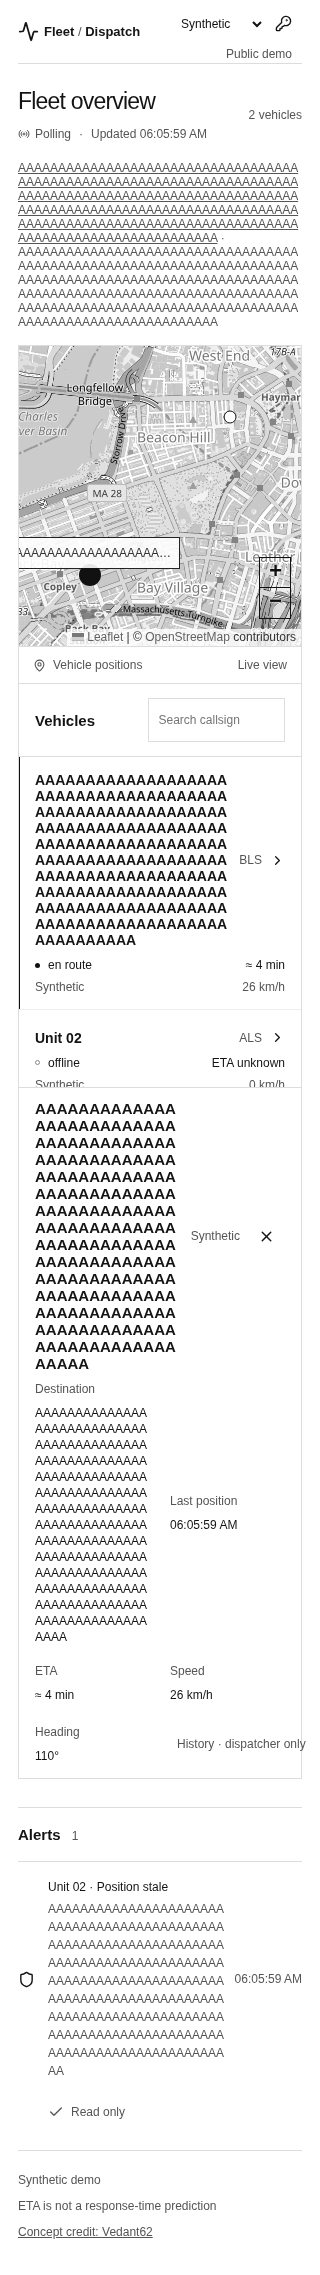
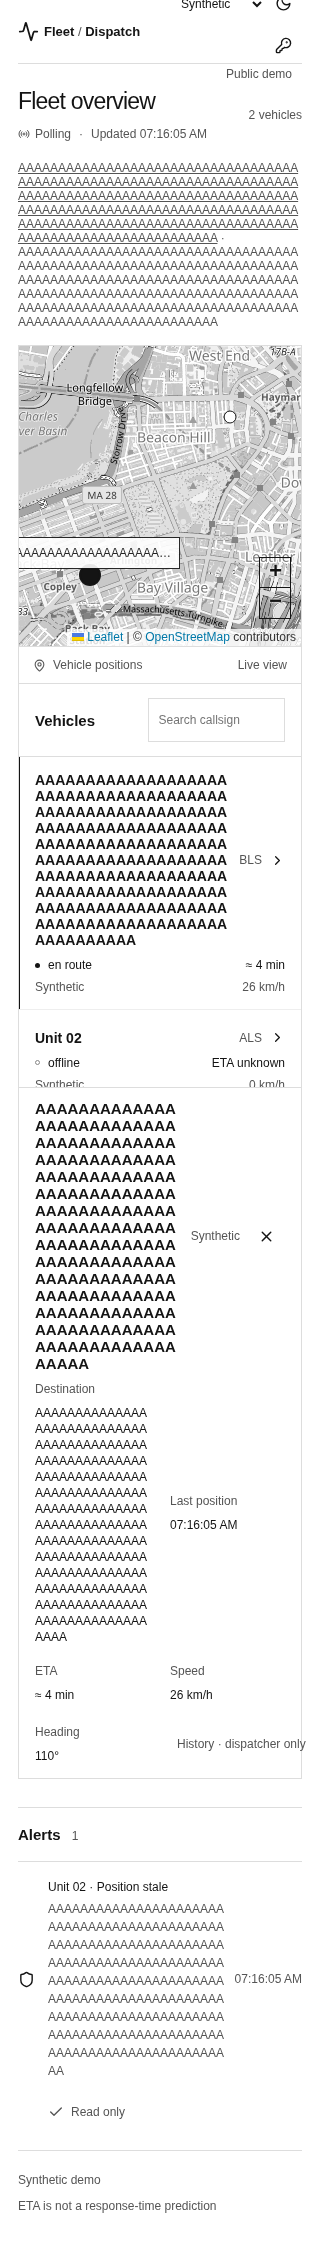
Dark mode by default with retained light toggle
Pre-paint /theme.js (CSP-safe external script) sets data-theme from
localStorage, defaulting to dark. Palette moves to CSS variables with a
light override; OSM tiles invert in dark, marker/tooltip colors follow
the theme. Toggle in the header persists across reloads. e2e pins the
two light-design assertions to light and adds a dark-default/persistence
test.

diff --git a/web/src/style.css b/web/src/style.css
@@ -1,8 +1,10 @@
-:root{font-family:Inter,Arial,sans-serif;color:#141414;background:#fff;font-synthesis:none;font-weight:400;font-size:14px}*{box-sizing:border-box}body{margin:0}button,input{font:inherit}button{display:inline-flex;align-items:center;justify-content:center;gap:7px;cursor:pointer;background:transparent;border:0;color:inherit;min-height:44px;padding:10px}button:disabled{cursor:not-allowed;color:#555}button:focus-visible,a:focus-visible,input:focus-visible{outline:2px solid #111;outline-offset:2px}a{color:inherit;text-decoration:none}input{min-width:0;border:1px solid #ddd;border-radius:0;padding:10px;background:#fff;color:#111;min-height:44px}main{max-width:1500px;margin:auto;padding:0 40px}header{height:78px;display:flex;align-items:center;justify-content:space-between;border-bottom:1px solid #ddd}.brand{display:flex;align-items:center;gap:12px;font-weight:600;font-size:16px}.slash{font-weight:400;color:#555}.header-meta{display:flex;align-items:center;gap:14px}.mode{font-size:12px;color:#555}.topline{display:flex;align-items:center;justify-content:space-between;padding:30px 0 24px}h1{font-size:26px;font-weight:500;letter-spacing:-.8px;margin:0 0 12px}h2{font-size:15px;font-weight:600;margin:0}.subline{display:flex;align-items:center;gap:7px;font-size:12px;color:#555}.dot{padding:0 3px}.fleet-count{font-size:12px;color:#555}.workspace{display:grid;grid-template-columns:minmax(0,1fr) 315px;border:1px solid #ddd;min-height:420px}.map-panel{min-width:0;position:relative;display:flex;flex-direction:column}.map{height:395px;width:100%;background:#f5f5f5;isolation:isolate;z-index:0}.map-caption{font-size:12px;color:#555;display:flex;gap:7px;align-items:center;padding:11px 14px;border-top:1px solid #ddd}.map-caption span:last-child{margin-left:auto}.vehicles-panel{border-left:1px solid #ddd;min-width:0}.panel-head{display:flex;justify-content:space-between;gap:15px;align-items:center;padding:18px 20px;border-bottom:1px solid #ddd}.vehicles-panel .panel-head{display:block;padding-bottom:13px}.panel-head input{width:100%;margin-top:14px;font-size:12px}.vehicle-list{max-height:345px;overflow:auto}.vehicle-row{display:block;width:100%;padding:16px 20px;text-align:left;border-bottom:1px solid #eee;min-height:102px}.vehicle-row:hover{background:#fff}.vehicle-row.selected{background:#fff;box-shadow:inset 1px 0 #111}.vehicle-top,.vehicle-middle,.vehicle-bottom{display:flex;align-items:center;gap:8px}.vehicle-top strong{font-size:14px;font-weight:600;flex:1}.type{font-size:12px;color:#555}.vehicle-middle{margin-top:10px;font-size:12px;text-transform:none}.status-dot{width:5px;height:5px;border-radius:50%;background:#111}.status-dot.stale{background:#fff;border:1px solid #888}.eta{margin-left:auto}.vehicle-bottom{justify-content:space-between;margin-top:8px;font-size:12px;color:#555}.eta-note{display:block;text-align:right;color:#555;font-size:12px;margin-top:5px}.alerts{margin-top:28px;border-top:1px solid #ddd;border-bottom:1px solid #ddd}.alerts .panel-head{padding-left:0;padding-right:0}.muted{font-size:12px;color:#555;margin-left:7px;font-weight:400}.alert-row{display:flex;align-items:center;gap:16px;padding:16px 0;border-bottom:1px solid #eee}.alert-row:last-child{border-bottom:0}.alert-row>div{flex:1;min-width:0}.alert-row strong{font-size:12px;font-weight:500}.alert-row p{margin:6px 0 0;font-size:12px;color:#555;line-height:1.5}.alert-row time{font-size:12px;color:#555}.text-button{font-size:12px;white-space:nowrap}.empty{padding:22px 20px;color:#555;font-size:12px}.alerts .empty{padding-left:0}.detail{border:1px solid #ddd;border-top:0;padding:16px 20px}.detail-title{display:flex;align-items:center;gap:15px}.detail-title>span{color:#555;font-size:12px}.detail-title>button{margin-left:auto}.detail-data{display:flex;align-items:center;gap:28px;margin-top:10px}.detail-data>div{flex:1;min-width:0}.detail-data span{font-size:12px;color:#555;display:block;margin-bottom:8px}.detail-data strong{font-size:12px;font-weight:500;overflow-wrap:anywhere}.replay{display:flex;align-items:center;gap:6px;margin-top:20px;border-top:1px solid #ddd;padding-top:10px}.replay input{flex:1;accent-color:#111;border:0}.replay>span{font-size:12px;white-space:nowrap}footer{display:flex;align-items:center;justify-content:space-between;gap:20px;font-size:12px;color:#555;padding:22px 0 32px;line-height:1.6}footer span{max-width:45%}footer a{text-decoration:underline}.error,.notice{padding:12px 16px;background:#f3f3f3;border:1px solid #ddd;margin-bottom:16px;font-size:12px;display:flex;justify-content:space-between;align-items:center}.error button{margin:-10px}.vehicle-tooltip{border:1px solid #111!important;border-radius:0!important;box-shadow:none!important;font-size:12px}.leaflet-container{font-family:inherit;filter:grayscale(1)}.leaflet-control-attribution{font-size:12px!important}.modal-scrim{position:fixed;inset:0;background:#0005;display:flex;align-items:center;justify-content:center;z-index:1000;padding:20px}.modal{width:420px;max-width:100%;background:#fff;padding:24px;border:1px solid #ddd}.modal label{display:block;font-size:12px;color:#555;margin:24px 0 10px}.modal input{width:100%}.primary{width:100%;background:#111;color:#fff;margin-top:20px}@media(max-width:760px){main{padding:0 18px}header{height:64px}.brand{font-size:14px;gap:8px}.mode{font-size:12px}.header-meta{gap:4px}.topline{padding:24px 0 20px}h1{font-size:23px}.subline{font-size:12px;gap:5px}.workspace{grid-template-columns:1fr}.map{height:300px}.vehicles-panel{border-left:0;border-top:1px solid #ddd}.vehicles-panel .panel-head{display:flex;align-items:center;gap:20px;padding:14px 16px}.panel-head input{width:155px;margin-top:0}.vehicle-list{max-height:330px}.vehicle-row{padding:15px 16px}.vehicle-bottom{font-size:12px}.detail{padding:12px 16px}.detail-title{flex-wrap:wrap;gap:8px}.detail-data{display:grid;grid-template-columns:1fr 1fr;gap:20px}.detail-data .text-button{justify-content:flex-start;padding-left:0}.alert-row{display:grid;grid-template-columns:20px 1fr auto;gap:10px}.alert-row .text-button{grid-column:2/4;justify-self:start;padding-left:0}.alert-row time{font-size:12px}.alerts .panel-head .muted{font-size:12px}.replay{flex-wrap:wrap}.replay input{width:calc(100% - 105px)}footer{display:block;padding-top:20px}footer span{display:block;max-width:100%;margin-bottom:7px}}@media(prefers-reduced-motion:reduce){*{scroll-behavior:auto!important}}
-select{font:inherit;background:#fff;color:#111;border:0;min-height:44px;font-size:12px;max-width:120px}.attribution{padding:0 0 16px;font-size:12px;color:#555}.attribution a{text-decoration:underline}@media(max-width:760px){select{font-size:12px;max-width:85px}.mode{display:none}}
+:root{--paper:#101010;--ink:#e8e8e8;--muted:#9a9a9a;--line:#2d2d2d;--row-line:#1f1f1f;--panel:#151515;--wash:#181818;color-scheme:dark;font-family:Inter,Arial,sans-serif;color:var(--ink);background:var(--paper);font-synthesis:none;font-weight:400;font-size:14px}
+[data-theme=light]{--paper:#fff;--ink:#141414;--muted:#555;--line:#ddd;--row-line:#eee;--panel:#f5f5f5;--wash:#f3f3f3;color-scheme:light}
+*{box-sizing:border-box}body{margin:0}button,input{font:inherit}button{display:inline-flex;align-items:center;justify-content:center;gap:7px;cursor:pointer;background:transparent;border:0;color:inherit;min-height:44px;padding:10px}button:disabled{cursor:not-allowed;color:var(--muted)}button:focus-visible,a:focus-visible,input:focus-visible{outline:2px solid var(--ink);outline-offset:2px}a{color:inherit;text-decoration:none}input{min-width:0;border:1px solid var(--line);border-radius:0;padding:10px;background:var(--paper);color:var(--ink);min-height:44px}main{max-width:1500px;margin:auto;padding:0 40px}header{height:78px;display:flex;align-items:center;justify-content:space-between;border-bottom:1px solid var(--line)}.brand{display:flex;align-items:center;gap:12px;font-weight:600;font-size:16px}.slash{font-weight:400;color:var(--muted)}.header-meta{display:flex;align-items:center;gap:14px}.mode{font-size:12px;color:var(--muted)}.topline{display:flex;align-items:center;justify-content:space-between;padding:30px 0 24px}h1{font-size:26px;font-weight:500;letter-spacing:-.8px;margin:0 0 12px}h2{font-size:15px;font-weight:600;margin:0}.subline{display:flex;align-items:center;gap:7px;font-size:12px;color:var(--muted)}.dot{padding:0 3px}.fleet-count{font-size:12px;color:var(--muted)}.workspace{display:grid;grid-template-columns:minmax(0,1fr) 315px;border:1px solid var(--line);min-height:420px}.map-panel{min-width:0;position:relative;display:flex;flex-direction:column}.map{height:395px;width:100%;background:var(--panel);isolation:isolate;z-index:0}.map-caption{font-size:12px;color:var(--muted);display:flex;gap:7px;align-items:center;padding:11px 14px;border-top:1px solid var(--line)}.map-caption span:last-child{margin-left:auto}.vehicles-panel{border-left:1px solid var(--line);min-width:0}.panel-head{display:flex;justify-content:space-between;gap:15px;align-items:center;padding:18px 20px;border-bottom:1px solid var(--line)}.vehicles-panel .panel-head{display:block;padding-bottom:13px}.panel-head input{width:100%;margin-top:14px;font-size:12px}.vehicle-list{max-height:345px;overflow:auto}.vehicle-row{display:block;width:100%;padding:16px 20px;text-align:left;border-bottom:1px solid var(--row-line);min-height:102px}.vehicle-row:hover{background:var(--paper)}.vehicle-row.selected{background:var(--paper);box-shadow:inset 1px 0 var(--ink)}.vehicle-top,.vehicle-middle,.vehicle-bottom{display:flex;align-items:center;gap:8px}.vehicle-top strong{font-size:14px;font-weight:600;flex:1}.type{font-size:12px;color:var(--muted)}.vehicle-middle{margin-top:10px;font-size:12px;text-transform:none}.status-dot{width:5px;height:5px;border-radius:50%;background:var(--ink)}.status-dot.stale{background:var(--paper);border:1px solid #888}.eta{margin-left:auto}.vehicle-bottom{justify-content:space-between;margin-top:8px;font-size:12px;color:var(--muted)}.eta-note{display:block;text-align:right;color:var(--muted);font-size:12px;margin-top:5px}.alerts{margin-top:28px;border-top:1px solid var(--line);border-bottom:1px solid var(--line)}.alerts .panel-head{padding-left:0;padding-right:0}.muted{font-size:12px;color:var(--muted);margin-left:7px;font-weight:400}.alert-row{display:flex;align-items:center;gap:16px;padding:16px 0;border-bottom:1px solid var(--row-line)}.alert-row:last-child{border-bottom:0}.alert-row>div{flex:1;min-width:0}.alert-row strong{font-size:12px;font-weight:500}.alert-row p{margin:6px 0 0;font-size:12px;color:var(--muted);line-height:1.5}.alert-row time{font-size:12px;color:var(--muted)}.text-button{font-size:12px;white-space:nowrap}.empty{padding:22px 20px;color:var(--muted);font-size:12px}.alerts .empty{padding-left:0}.detail{border:1px solid var(--line);border-top:0;padding:16px 20px}.detail-title{display:flex;align-items:center;gap:15px}.detail-title>span{color:var(--muted);font-size:12px}.detail-title>button{margin-left:auto}.detail-data{display:flex;align-items:center;gap:28px;margin-top:10px}.detail-data>div{flex:1;min-width:0}.detail-data span{font-size:12px;color:var(--muted);display:block;margin-bottom:8px}.detail-data strong{font-size:12px;font-weight:500;overflow-wrap:anywhere}.replay{display:flex;align-items:center;gap:6px;margin-top:20px;border-top:1px solid var(--line);padding-top:10px}.replay input{flex:1;accent-color:var(--ink);border:0}.replay>span{font-size:12px;white-space:nowrap}footer{display:flex;align-items:center;justify-content:space-between;gap:20px;font-size:12px;color:var(--muted);padding:22px 0 32px;line-height:1.6}footer span{max-width:45%}footer a{text-decoration:underline}.error,.notice{padding:12px 16px;background:var(--wash);border:1px solid var(--line);margin-bottom:16px;font-size:12px;display:flex;justify-content:space-between;align-items:center}.error button{margin:-10px}.vehicle-tooltip{border:1px solid var(--ink)!important;border-radius:0!important;box-shadow:none!important;font-size:12px;background:var(--paper)!important;color:var(--ink)!important}.leaflet-container{font-family:inherit}.leaflet-tile-pane{filter:grayscale(1)}[data-theme=dark] .leaflet-tile-pane{filter:grayscale(1) invert(.93) brightness(.85) contrast(.9)}[data-theme=dark] .leaflet-tooltip-top:before{border-top-color:var(--paper)}.leaflet-control-attribution{font-size:12px!important}.modal-scrim{position:fixed;inset:0;background:#0005;display:flex;align-items:center;justify-content:center;z-index:1000;padding:20px}.modal{width:420px;max-width:100%;background:var(--paper);padding:24px;border:1px solid var(--line)}.modal label{display:block;font-size:12px;color:var(--muted);margin:24px 0 10px}.modal input{width:100%}.primary{width:100%;background:var(--ink);color:var(--paper);margin-top:20px}@media(max-width:760px){main{padding:0 18px}header{height:64px}.brand{font-size:14px;gap:8px}.mode{font-size:12px}.header-meta{gap:4px}.topline{padding:24px 0 20px}h1{font-size:23px}.subline{font-size:12px;gap:5px}.workspace{grid-template-columns:1fr}.map{height:300px}.vehicles-panel{border-left:0;border-top:1px solid var(--line)}.vehicles-panel .panel-head{display:flex;align-items:center;gap:20px;padding:14px 16px}.panel-head input{width:155px;margin-top:0}.vehicle-list{max-height:330px}.vehicle-row{padding:15px 16px}.vehicle-bottom{font-size:12px}.detail{padding:12px 16px}.detail-title{flex-wrap:wrap;gap:8px}.detail-data{display:grid;grid-template-columns:1fr 1fr;gap:20px}.detail-data .text-button{justify-content:flex-start;padding-left:0}.alert-row{display:grid;grid-template-columns:20px 1fr auto;gap:10px}.alert-row .text-button{grid-column:2/4;justify-self:start;padding-left:0}.alert-row time{font-size:12px}.alerts .panel-head .muted{font-size:12px}.replay{flex-wrap:wrap}.replay input{width:calc(100% - 105px)}footer{display:block;padding-top:20px}footer span{display:block;max-width:100%;margin-bottom:7px}}@media(prefers-reduced-motion:reduce){*{scroll-behavior:auto!important}}
+select{font:inherit;background:var(--paper);color:var(--ink);border:0;min-height:44px;font-size:12px;max-width:120px}.attribution{padding:0 0 16px;font-size:12px;color:var(--muted)}.attribution a{text-decoration:underline}@media(max-width:760px){select{font-size:12px;max-width:85px}.mode{display:none}}
 @media(max-width:760px){.mode{display:inline;font-size:12px}header .brand{font-size:13px;gap:5px}.header-meta{gap:2px}}
 
-.vehicle-top strong,.vehicle-bottom span,.alert-row strong,.alert-row p,.attribution,.notice,.error,.detail-title h2,footer{overflow-wrap:anywhere;min-width:0}.vehicle-top svg,.status-dot,.alert-row>svg{flex-shrink:0}.vehicle-bottom span{flex:1}.vehicle-bottom span:last-child{text-align:right}.vehicle-middle{flex-wrap:wrap}.detail-title h2{flex:1}.leaflet-control-zoom{border:1px solid #111!important;border-radius:0!important;box-shadow:none!important}.leaflet-control-zoom a{background:transparent!important;border-color:#111!important}.leaflet-bar a:first-child,.leaflet-bar a:last-child{border-radius:0!important}.leaflet-control-attribution{font-size:12px!important;color:#333!important}.alert-row .text-button{white-space:normal}.type{flex-shrink:0}@media(max-width:760px){.header-meta .mode{display:none}.detail-data{grid-template-columns:minmax(0,1fr) minmax(0,1fr)}.alert-row{grid-template-columns:20px minmax(0,1fr) auto}.brand{white-space:nowrap}.replay{font-size:12px}.vehicles-panel .panel-head{gap:8px}.panel-head input{max-width:55%}.subline{flex-wrap:wrap}}
-.vehicle-tooltip{max-width:180px;overflow:hidden;text-overflow:ellipsis;white-space:nowrap;font-size:12px!important}.vehicle-middle>.eta{margin-left:auto}.leaflet-control-zoom a{color:#111!important;text-shadow:0 0 2px #fff,0 0 3px #fff}.detail-data{flex-wrap:wrap}.detail-data>div{min-width:110px}
+.vehicle-top strong,.vehicle-bottom span,.alert-row strong,.alert-row p,.attribution,.notice,.error,.detail-title h2,footer{overflow-wrap:anywhere;min-width:0}.vehicle-top svg,.status-dot,.alert-row>svg{flex-shrink:0}.vehicle-bottom span{flex:1}.vehicle-bottom span:last-child{text-align:right}.vehicle-middle{flex-wrap:wrap}.detail-title h2{flex:1}.leaflet-control-zoom{border:1px solid var(--ink)!important;border-radius:0!important;box-shadow:none!important}.leaflet-control-zoom a{background:transparent!important;border-color:var(--ink)!important}.leaflet-bar a:first-child,.leaflet-bar a:last-child{border-radius:0!important}.leaflet-control-attribution{font-size:12px!important;color:#333!important}[data-theme=dark] .leaflet-control-attribution{color:var(--muted)!important;background:rgba(16,16,16,.75)!important}.alert-row .text-button{white-space:normal}.type{flex-shrink:0}@media(max-width:760px){.header-meta .mode{display:none}.detail-data{grid-template-columns:minmax(0,1fr) minmax(0,1fr)}.alert-row{grid-template-columns:20px minmax(0,1fr) auto}.brand{white-space:nowrap}.replay{font-size:12px}.vehicles-panel .panel-head{gap:8px}.panel-head input{max-width:55%}.subline{flex-wrap:wrap}}
+.vehicle-tooltip{max-width:180px;overflow:hidden;text-overflow:ellipsis;white-space:nowrap;font-size:12px!important}.vehicle-middle>.eta{margin-left:auto}.leaflet-control-zoom a{color:var(--ink)!important;text-shadow:0 0 2px var(--paper),0 0 3px var(--paper)}.detail-data{flex-wrap:wrap}.detail-data>div{min-width:110px}
 
 @media(max-width:760px){.header-meta .mode{display:inline;font-size:12px}.header-meta{flex-wrap:wrap;justify-content:flex-end;gap:0;max-width:165px}.header-meta select{max-width:100px}.header-meta .mode{order:3;flex-basis:100%;text-align:right;padding-right:10px;line-height:16px}.header-meta button{min-height:40px}}

diff --git a/web/src/App.tsx b/web/src/App.tsx
@@ -1,5 +1,5 @@
 import {useCallback,useEffect,useMemo,useState,useRef} from 'react';
-import {Activity,ArrowLeft,Check,ChevronRight,Clock,KeyRound,LogOut,MapPin,Pause,Play,Radio,RefreshCw,Shield,X} from 'lucide-react';
+import {Activity,ArrowLeft,Check,ChevronRight,Clock,KeyRound,LogOut,MapPin,Moon,Pause,Play,Radio,RefreshCw,Shield,Sun,X} from 'lucide-react';
 import {acknowledge,history} from './api';
 import {connectFleet,type Connection} from './transport';
 import {FleetMap} from './FleetMap';
@@ -8,7 +8,7 @@ import './style.css';
 function renderAttribution(value:unknown):React.ReactNode{if(typeof value==='string')return value;if(Array.isArray(value))return value.map((entry,i)=><span key={i}>{renderAttribution(entry)} </span>);if(value&&typeof value==='object'){const entry=value as Record<string,unknown>;const text=typeof entry.text==='string'?entry.text:typeof entry.label==='string'?entry.label:typeof entry.name==='string'?entry.name:'';const url=typeof entry.url==='string'&&/^https?:\/\//.test(entry.url)?entry.url:null;return <>{text&&url?<a href={url} rel="noreferrer" target="_blank">{text}</a>:text}{typeof entry.source==='string'?` · ${entry.source}`:''}{entry.links!=null?renderAttribution(entry.links):null}</>;}return null;}
  const time=(stamp:string)=>new Date(stamp).toLocaleTimeString([], {hour:'2-digit',minute:'2-digit',second:'2-digit'});
 export default function App(){
- const [standIn,setStandIn]=useState(false),[token,setToken]=useState<string|null>(null),[tokenInput,setTokenInput]=useState(''),[login,setLogin]=useState(false),[snapshot,setSnapshot]=useState<FleetSnapshot|null>(null),[selectedId,setSelectedId]=useState<string|null>(null),[connection,setConnection]=useState<Connection>('connecting'),[error,setError]=useState(''),[filter,setFilter]=useState(''),[historyPings,setHistoryPings]=useState<Ping[]|null>(null),[cursor,setCursor]=useState(0),[playing,setPlaying]=useState(false),[historyBusy,setHistoryBusy]=useState(false),[historyError,setHistoryError]=useState(''),[ackBusy,setAckBusy]=useState<string|null>(null),[acked,setAcked]=useState<Set<string>>(new Set()),[now,setNow]=useState(performance.now());
+ const [theme,setTheme]=useState<'dark'|'light'>(()=>document.documentElement.dataset.theme==='light'?'light':'dark'),[standIn,setStandIn]=useState(false),[token,setToken]=useState<string|null>(null),[tokenInput,setTokenInput]=useState(''),[login,setLogin]=useState(false),[snapshot,setSnapshot]=useState<FleetSnapshot|null>(null),[selectedId,setSelectedId]=useState<string|null>(null),[connection,setConnection]=useState<Connection>('connecting'),[error,setError]=useState(''),[filter,setFilter]=useState(''),[historyPings,setHistoryPings]=useState<Ping[]|null>(null),[cursor,setCursor]=useState(0),[playing,setPlaying]=useState(false),[historyBusy,setHistoryBusy]=useState(false),[historyError,setHistoryError]=useState(''),[ackBusy,setAckBusy]=useState<string|null>(null),[acked,setAcked]=useState<Set<string>>(new Set()),[now,setNow]=useState(performance.now());
  const signInTrigger=useRef<HTMLButtonElement>(null);const receivedAt=useRef(performance.now());const modalRef=useRef<HTMLElement>(null);
  const selectionRef=useRef(selectedId);selectionRef.current=selectedId;const tokenRef=useRef(token);tokenRef.current=token;
  const mode:Mode=token?'live':'demo';
@@ -18,6 +18,7 @@ export default function App(){
  useEffect(()=>{if(!playing||!historyPings)return;const timer=setInterval(()=>setCursor(c=>{if(c>=historyPings.length-1){setPlaying(false);return c;}return c+1;}),650);return()=>clearInterval(timer);},[playing,historyPings]);
  useEffect(()=>{if(!login)return;const handler=(event:KeyboardEvent)=>{if(event.key==='Escape'){event.preventDefault();setLogin(false);}if(event.key==='Tab'){const items=Array.from(modalRef.current?.querySelectorAll<HTMLElement>('button:not(:disabled),input,select,a[href]')??[]);const first=items[0],last=items[items.length-1];if(event.shiftKey&&(document.activeElement===first||!modalRef.current?.contains(document.activeElement))){event.preventDefault();last?.focus();}else if(!event.shiftKey&&(document.activeElement===last||!modalRef.current?.contains(document.activeElement))){event.preventDefault();first?.focus();}}};document.addEventListener('keydown',handler);return()=>{document.removeEventListener('keydown',handler);signInTrigger.current?.focus();};},[login]);
  const select=useCallback((id:string)=>setSelectedId(id),[]);
+ const toggleTheme=()=>{const next=theme==='dark'?'light':'dark';document.documentElement.dataset.theme=next;try{localStorage.setItem('theme',next);}catch{}setTheme(next);};
  const vehicle=snapshot?.vehicles.find(v=>v.id===selectedId)??null;
  const vehicles=useMemo(()=>snapshot?.vehicles.filter(v=>v.callsign.toLowerCase().includes(filter.toLowerCase()))??[],[snapshot,filter]);
  // Server flags are preserved; a stale received snapshot must not keep a vehicle visually fresh.
@@ -29,13 +30,13 @@ export default function App(){
  const ack=async(id:string)=>{if(!token)return;setAckBusy(id);setError('');try{const result=await acknowledge(id,token);if(result.acknowledged!==true)throw new Error('Invalid acknowledgment response');if(tokenRef.current===token)setAcked(previous=>new Set([...previous,id]));}catch(e){setError(e instanceof Error?e.message:'Acknowledgment failed');}finally{setAckBusy(null);}};
  const signin=()=>{const value=tokenInput.trim();if(!/^[A-Za-z0-9_-]+\.[A-Za-z0-9_-]+\.[A-Za-z0-9_-]+$/.test(value)){setError('Invalid token format');return;}setToken(value);setTokenInput('');setLogin(false);};
  return <main>
- <header><a className="brand" href="/" aria-label="Fleet dispatch home"><Activity size={21}/><span>Fleet<span className="slash"> / </span>Dispatch</span></a><div className="header-meta">{!token&&<select aria-label="Demo data source" value={standIn?'stand_in':'synthetic'} onChange={e=>setStandIn(e.target.value==='stand_in')}><option value="synthetic">Synthetic</option><option value="stand_in">MBTA buses</option></select>}<span className="mode">{mode==='demo'?'Public demo':'Dispatcher'}</span><button ref={signInTrigger} aria-label={token?'Sign out':'Dispatcher sign in'} onClick={()=>token?setToken(null):setLogin(true)}>{token?<LogOut size={17}/>:<KeyRound size={17}/>}</button></div></header>
+ <header><a className="brand" href="/" aria-label="Fleet dispatch home"><Activity size={21}/><span>Fleet<span className="slash"> / </span>Dispatch</span></a><div className="header-meta">{!token&&<select aria-label="Demo data source" value={standIn?'stand_in':'synthetic'} onChange={e=>setStandIn(e.target.value==='stand_in')}><option value="synthetic">Synthetic</option><option value="stand_in">MBTA buses</option></select>}<span className="mode">{mode==='demo'?'Public demo':'Dispatcher'}</span><button aria-label={theme==='dark'?'Switch to light mode':'Switch to dark mode'} title={theme==='dark'?'Switch to light mode':'Switch to dark mode'} onClick={toggleTheme}>{theme==='dark'?<Sun size={17}/>:<Moon size={17}/>}</button><button ref={signInTrigger} aria-label={token?'Sign out':'Dispatcher sign in'} onClick={()=>token?setToken(null):setLogin(true)}>{token?<LogOut size={17}/>:<KeyRound size={17}/>}</button></div></header>
  <section className="topline"><div><h1>Fleet overview</h1><div className="subline"><Radio size={12}/><span>{connection==='websocket'?'Connected':connection==='polling'?'Polling':connection==='paused'?'Paused':connection==='error'?'Unavailable':'Connecting'}</span>{snapshot&&<><span className="dot">·</span><span>Updated {time(snapshot.server_time)}</span></>}</div></div><span className="fleet-count">{snapshot?.vehicles.length??'—'} {snapshot?.vehicles.length===1?'vehicle':'vehicles'}</span></section>
  {error&&<div className="error" role="alert">{error}<button aria-label="Dismiss error" onClick={()=>setError('')}><X size={16}/></button></div>}
  {snapshot?.feed_error!=null&&<div className="notice" role="alert">Stand-in feed unavailable{typeof snapshot.feed_error==='string'?`: ${snapshot.feed_error}`:''}. No synthetic substitution.</div>}
  {snapshot?.attribution!=null&&<div className="attribution">{renderAttribution(snapshot.attribution)}</div>}
  {staleSnapshot&&<div className="notice" role="status">Fleet snapshot is out of date. Positions and ETA are unavailable as current data.</div>}
- <div className="workspace"><section className="map-panel"><FleetMap key={snapshot?.fleet_id??`${mode}:${standIn}`} vehicles={displayed} selectedId={selectedId} onSelect={select} replay={replay}/><div className="map-caption"><MapPin size={13}/><span>{replay?'Recorded positions · replay':'Vehicle positions'}</span><span>{historyPings&&historyPings[cursor]?time(historyPings[cursor].recorded_at):'Live view'}</span></div></section>
+ <div className="workspace"><section className="map-panel"><FleetMap key={snapshot?.fleet_id??`${mode}:${standIn}`} vehicles={displayed} selectedId={selectedId} onSelect={select} replay={replay} theme={theme}/><div className="map-caption"><MapPin size={13}/><span>{replay?'Recorded positions · replay':'Vehicle positions'}</span><span>{historyPings&&historyPings[cursor]?time(historyPings[cursor].recorded_at):'Live view'}</span></div></section>
  <section className="vehicles-panel" aria-label="Vehicles"><div className="panel-head"><h2>Vehicles</h2><input aria-label="Filter vehicles" placeholder="Search callsign" value={filter} onChange={e=>setFilter(e.target.value)}/></div>
  <div className="vehicle-list">{!snapshot?<div className="empty">Awaiting fleet</div>:!vehicles.length?<div className="empty">No vehicles</div>:vehicles.map(v=>{const stale=vehicleIsStale(v,snapshot!,now-receivedAt.current);return <button className={`vehicle-row ${selectedId===v.id?'selected':''}`} key={v.id} onClick={()=>select(v.id)} aria-pressed={selectedId===v.id}><div className="vehicle-top"><strong>{v.callsign}</strong><span className="type">{v.source==='stand_in'?'BUS':v.type}</span><ChevronRight size={15}/></div><div className="vehicle-middle"><span className={`status-dot ${stale?'stale':''}`}/><span>{statusLabel(stale?'offline':v.status)}</span><span className="eta">{!stale&&v.eta&&v.latest_ping?.speed_kph!=null?`≈ ${Math.round(v.eta.minutes)} min`:'ETA unknown'}</span></div><div className="vehicle-bottom"><span>{sourceLabel(v,mode)}</span><span>{v.latest_ping?(v.latest_ping.speed_kph===null?'Speed unknown':`${Math.round(v.latest_ping.speed_kph)} km/h`):'No position'}</span></div></button>;})}</div>
  </section></div>

diff --git a/web/e2e/ui.spec.ts b/web/e2e/ui.spec.ts
@@ -12,12 +12,27 @@ test('stand-in feed failure stays empty, phone 320px has no overflow',async({pag
 test('expired dispatcher token stops live transport and can sign out',async({page})=>{await page.goto('/');await page.getByRole('button',{name:'Dispatcher sign in'}).click();await page.getByLabel('Short-lived access token').fill('expired.test.token');await page.getByRole('button',{name:'Connect',exact:true}).click();await expect(page.getByRole('alert')).toContainText('Dispatcher access denied');await expect(page.locator('.vehicle-row')).toHaveCount(0);await page.getByRole('button',{name:'Sign out'}).click();await expect(page.getByText('Unit 01',{exact:true})).toBeVisible();});
 
 test('long strings wrap at desktop, 390 and 320; sentence case and style',async({page})=>{
- await page.routeWebSocket('**/api/demo/events**',socket=>socket.close());const long='A'.repeat(200);await page.route('**/api/demo/fleet',async route=>{const result=await route.fetch();const s=await result.json();s.vehicles[0].callsign=long;s.vehicles[0].destination.label=long;s.alerts[0].message=long;s.attribution={label:long,source:long,url:'https://www.mbta.com/developers/gtfs-realtime'};await route.fulfill({json:s});});
+ await page.addInitScript(()=>localStorage.setItem('theme','light'));await page.routeWebSocket('**/api/demo/events**',socket=>socket.close());const long='A'.repeat(200);await page.route('**/api/demo/fleet',async route=>{const result=await route.fetch();const s=await result.json();s.vehicles[0].callsign=long;s.vehicles[0].destination.label=long;s.alerts[0].message=long;s.attribution={label:long,source:long,url:'https://www.mbta.com/developers/gtfs-realtime'};await route.fulfill({json:s});});
  await page.goto('/');await expect(page.locator('.vehicle-row').first()).toBeVisible();await page.locator('.vehicle-row').first().click();for(const width of [1440,390,320]){await page.setViewportSize({width,height:1000});await expect.poll(()=>page.evaluate(()=>document.documentElement.scrollWidth<=innerWidth)).toBe(true);await expect(page.getByText('en route',{exact:true})).toBeVisible();await expect(page.getByText('Advisory · straight-line ETA')).toHaveCount(0);await expect(page.getByText('Operational advisories')).toHaveCount(0);await expect(page.locator('.vehicle-row.selected')).toHaveCSS('background-color','rgb(255, 255, 255)');await page.screenshot({path:`screenshots/long-${width}.png`,fullPage:true});}
 });
 test('modal traps focus and Escape closes from any control',async({page})=>{await page.goto('/');await page.getByRole('button',{name:'Dispatcher sign in'}).click();const dialog=page.getByRole('dialog');const close=page.getByRole('button',{name:'Close sign in'}),connect=page.getByRole('button',{name:'Connect',exact:true});await connect.focus();await page.keyboard.press('Tab');await expect(close).toBeFocused();await page.keyboard.press('Shift+Tab');await expect(connect).toBeFocused();await page.keyboard.press('Escape');await expect(dialog).toHaveCount(0);await expect(page.getByRole('button',{name:'Dispatcher sign in'})).toBeFocused();});
 test('authorization expiry removes existing rows immediately',async({page})=>{await page.routeWebSocket('**/api/events',socket=>socket.close());await page.goto('/');await page.getByRole('button',{name:'Dispatcher sign in'}).click();await page.getByLabel('Short-lived access token').fill('mock.dispatcher.token');await page.getByRole('button',{name:'Connect',exact:true}).click();await expect(page.locator('.vehicle-row')).toHaveCount(3);await page.route('**/api/fleet',route=>route.fulfill({status:401,json:{error:{code:'expired',message:'Expired'}}}));await expect(page.getByRole('alert')).toContainText('Dispatcher access denied',{timeout:7000});await expect(page.locator('.vehicle-row')).toHaveCount(0);});
 test('two-minute-ahead client clock keeps fresh vehicles online',async({page})=>{await page.addInitScript(()=>{const original=Date.now.bind(Date);Date.now=()=>original()+120000;});await page.goto('/');await expect(page.getByText('en route',{exact:true})).toBeVisible();await expect(page.getByText('Fleet snapshot is out of date.',{exact:false})).toHaveCount(0);});
 
-test('text contrast and labels stay readable; WS expiry clears rows',async({page})=>{await page.routeWebSocket('**/api/events',socket=>{socket.connectToServer();setTimeout(()=>socket.close({code:1008,reason:'auth_expired'}),1800);});await page.goto('/');await expect(page.getByRole('button',{name:'Read only alert stale-2'})).toHaveText('Read only');for(const selector of ['.vehicle-bottom','.type','.mode','.subline','footer','.attribution','.muted']){const elements=page.locator(selector);for(let i=0;i<await elements.count();i++){const style=await elements.nth(i).evaluate(el=>({size:parseFloat(getComputedStyle(el).fontSize),color:getComputedStyle(el).color}));expect(style.size).toBeGreaterThanOrEqual(12);const rgb=style.color.match(/\d+/g)!.slice(0,3).map(Number).map(v=>{v/=255;return v<=.04045?v/12.92:((v+.055)/1.055)**2.4;});const lum=.2126*rgb[0]+.7152*rgb[1]+.0722*rgb[2];expect(1.05/(lum+.05)).toBeGreaterThanOrEqual(4.5);}}await page.getByRole('button',{name:'Dispatcher sign in'}).click();await page.getByLabel('Short-lived access token').fill('mock.dispatcher.token');await page.getByRole('button',{name:'Connect',exact:true}).click();await expect(page.locator('.vehicle-row')).toHaveCount(3);await expect(page.getByRole('alert')).toContainText('Dispatcher access denied');await expect(page.locator('.vehicle-row')).toHaveCount(0);});
+test('text contrast and labels stay readable; WS expiry clears rows',async({page})=>{await page.addInitScript(()=>localStorage.setItem('theme','light'));await page.routeWebSocket('**/api/events',socket=>{socket.connectToServer();setTimeout(()=>socket.close({code:1008,reason:'auth_expired'}),1800);});await page.goto('/');await expect(page.getByRole('button',{name:'Read only alert stale-2'})).toHaveText('Read only');for(const selector of ['.vehicle-bottom','.type','.mode','.subline','footer','.attribution','.muted']){const elements=page.locator(selector);for(let i=0;i<await elements.count();i++){const style=await elements.nth(i).evaluate(el=>({size:parseFloat(getComputedStyle(el).fontSize),color:getComputedStyle(el).color}));expect(style.size).toBeGreaterThanOrEqual(12);const rgb=style.color.match(/\d+/g)!.slice(0,3).map(Number).map(v=>{v/=255;return v<=.04045?v/12.92:((v+.055)/1.055)**2.4;});const lum=.2126*rgb[0]+.7152*rgb[1]+.0722*rgb[2];expect(1.05/(lum+.05)).toBeGreaterThanOrEqual(4.5);}}await page.getByRole('button',{name:'Dispatcher sign in'}).click();await page.getByLabel('Short-lived access token').fill('mock.dispatcher.token');await page.getByRole('button',{name:'Connect',exact:true}).click();await expect(page.locator('.vehicle-row')).toHaveCount(3);await expect(page.getByRole('alert')).toContainText('Dispatcher access denied');await expect(page.locator('.vehicle-row')).toHaveCount(0);});
 test('normal synthetic layout at 320px',async({page})=>{await page.setViewportSize({width:320,height:720});await page.goto('/');await expect(page.getByText('Unit 01',{exact:true})).toBeVisible();await expect.poll(()=>page.evaluate(()=>document.documentElement.scrollWidth<=innerWidth)).toBe(true);await page.waitForTimeout(1000);await page.screenshot({path:'screenshots/phone-320.png',fullPage:true});});
+test('dark is the default theme; toggle switches and persists across reload',async({page})=>{
+ await page.goto('/');await expect(page.getByText('Unit 01',{exact:true})).toBeVisible();
+ await expect.poll(()=>page.evaluate(()=>document.documentElement.dataset.theme)).toBe('dark');
+ await expect.poll(()=>page.evaluate(()=>getComputedStyle(document.documentElement).backgroundColor)).toBe('rgb(16, 16, 16)');
+ await expect(page.locator('.leaflet-interactive').first()).toBeInViewport();
+ await page.screenshot({path:'screenshots/dark-desktop.png',fullPage:true});
+ await page.getByRole('button',{name:'Switch to light mode'}).click();
+ await expect.poll(()=>page.evaluate(()=>document.documentElement.dataset.theme)).toBe('light');
+ await expect.poll(()=>page.evaluate(()=>getComputedStyle(document.documentElement).backgroundColor)).toBe('rgb(255, 255, 255)');
+ await page.reload();await expect(page.getByText('Unit 01',{exact:true})).toBeVisible();
+ await expect.poll(()=>page.evaluate(()=>document.documentElement.dataset.theme)).toBe('light');
+ await page.getByRole('button',{name:'Switch to dark mode'}).click();
+ await page.reload();await expect(page.getByText('Unit 01',{exact:true})).toBeVisible();
+ await expect.poll(()=>page.evaluate(()=>document.documentElement.dataset.theme)).toBe('dark');
+});

diff --git a/web/src/FleetMap.tsx b/web/src/FleetMap.tsx
@@ -2,13 +2,14 @@ import {useEffect,useRef} from 'react';
 import L from 'leaflet';
 import 'leaflet/dist/leaflet.css';
 import type {Ping,Vehicle} from './types';
-export function FleetMap({vehicles,selectedId,onSelect,replay}:{vehicles:Vehicle[];selectedId:string|null;onSelect:(id:string)=>void;replay:Ping[]|null}){
+export function FleetMap({vehicles,selectedId,onSelect,replay,theme}:{vehicles:Vehicle[];selectedId:string|null;onSelect:(id:string)=>void;replay:Ping[]|null;theme:'dark'|'light'}){
  const element=useRef<HTMLDivElement>(null),map=useRef<L.Map|null>(null),layer=useRef<L.LayerGroup|null>(null),initialized=useRef(false),bounds=useRef<L.LatLngBounds|null>(null);
  useEffect(()=>{if(!element.current)return;const instance=L.map(element.current,{zoomControl:false,attributionControl:true,zoomAnimation:false,fadeAnimation:false,markerZoomAnimation:false}).setView([42.355,-71.065],13);map.current=instance;L.control.zoom({position:'bottomright'}).addTo(instance);L.tileLayer('https://tile.openstreetmap.org/{z}/{x}/{y}.png',{maxZoom:19,attribution:'&copy; <a href="https://www.openstreetmap.org/copyright">OpenStreetMap</a> contributors'}).addTo(instance);layer.current=L.layerGroup().addTo(instance);const observer=new ResizeObserver(()=>{if(map.current===instance){instance.invalidateSize({animate:false});if(bounds.current)instance.fitBounds(bounds.current,{maxZoom:14,animate:false});}});observer.observe(element.current);return()=>{observer.disconnect();map.current=null;instance.stop();instance.remove();initialized.current=false;};},[]);
  useEffect(()=>{if(!map.current||!layer.current)return;layer.current.clearLayers();const points:L.LatLngExpression[]=[];
- if(replay?.length){L.polyline(replay.map(p=>[p.lat,p.lon]),{color:'#111',weight:2,dashArray:'4 5'}).addTo(layer.current);}
- for(const vehicle of vehicles){const ping=vehicle.id===selectedId&&replay?.length?replay[replay.length-1]:vehicle.latest_ping;if(!ping)continue;const point:L.LatLngExpression=[ping.lat,ping.lon];points.push(point);const active=vehicle.id===selectedId;const marker=L.circleMarker(point,{radius:active?10:6,color:'#111',weight:active?2:1,fillColor:vehicle.stale?'#fff':'#111',fillOpacity:1}).addTo(layer.current);const label=document.createElement('span');label.textContent=vehicle.callsign;marker.bindTooltip(label,{permanent:active,direction:'top',className:'vehicle-tooltip'});marker.on('click',()=>onSelect(vehicle.id));}
+ const css=getComputedStyle(document.documentElement),ink=css.getPropertyValue('--ink').trim()||'#111',paper=css.getPropertyValue('--paper').trim()||'#fff';
+ if(replay?.length){L.polyline(replay.map(p=>[p.lat,p.lon]),{color:ink,weight:2,dashArray:'4 5'}).addTo(layer.current);}
+ for(const vehicle of vehicles){const ping=vehicle.id===selectedId&&replay?.length?replay[replay.length-1]:vehicle.latest_ping;if(!ping)continue;const point:L.LatLngExpression=[ping.lat,ping.lon];points.push(point);const active=vehicle.id===selectedId;const marker=L.circleMarker(point,{radius:active?10:6,color:ink,weight:active?2:1,fillColor:vehicle.stale?paper:ink,fillOpacity:1}).addTo(layer.current);const label=document.createElement('span');label.textContent=vehicle.callsign;marker.bindTooltip(label,{permanent:active,direction:'top',className:'vehicle-tooltip'});marker.on('click',()=>onSelect(vehicle.id));}
  if(points.length){bounds.current=L.latLngBounds(points).pad(.3);if(!initialized.current){map.current.fitBounds(bounds.current,{maxZoom:14,animate:false});initialized.current=true;}}
- },[vehicles,selectedId,onSelect,replay]);
+ },[vehicles,selectedId,onSelect,replay,theme]);
  return <div className="map" role="region" aria-label="Vehicle positions on OpenStreetMap" ref={element}/>;
 }

diff --git a/web/index.html b/web/index.html
@@ -1,1 +1,1 @@
-<!doctype html><html lang="en"><head><meta charset="UTF-8"><meta name="viewport" content="width=device-width, initial-scale=1"><meta name="referrer" content="strict-origin-when-cross-origin"><title>Fleet / Dispatch</title></head><body><div id="root"></div><script type="module" src="/src/main.tsx"></script></body></html>
+<!doctype html><html lang="en"><head><meta charset="UTF-8"><meta name="viewport" content="width=device-width, initial-scale=1"><meta name="referrer" content="strict-origin-when-cross-origin"><title>Fleet / Dispatch</title><script src="/theme.js"></script><style>html{background:#101010;color-scheme:dark}html[data-theme=light]{background:#fff;color-scheme:light}</style></head><body><div id="root"></div><script type="module" src="/src/main.tsx"></script></body></html>

diff --git a/web/public/theme.js b/web/public/theme.js
@@ -1,0 +1,1 @@
+(function(){var t=null;try{t=localStorage.getItem('theme');}catch(e){}document.documentElement.dataset.theme=t==='light'?'light':'dark';})();
